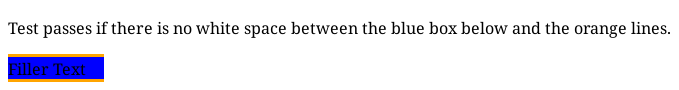
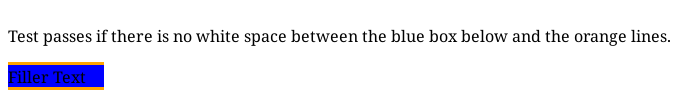
tests for margins collapse and floats

diff --git a/render/test41.htm b/render/test41.htm
@@ -1,0 +1,3 @@
+<div style="margin-left: 100px;">
+    <div style="width: 50px; float: left; margin-left: -100px; background-color: red;">hello</div>text
+</div>
